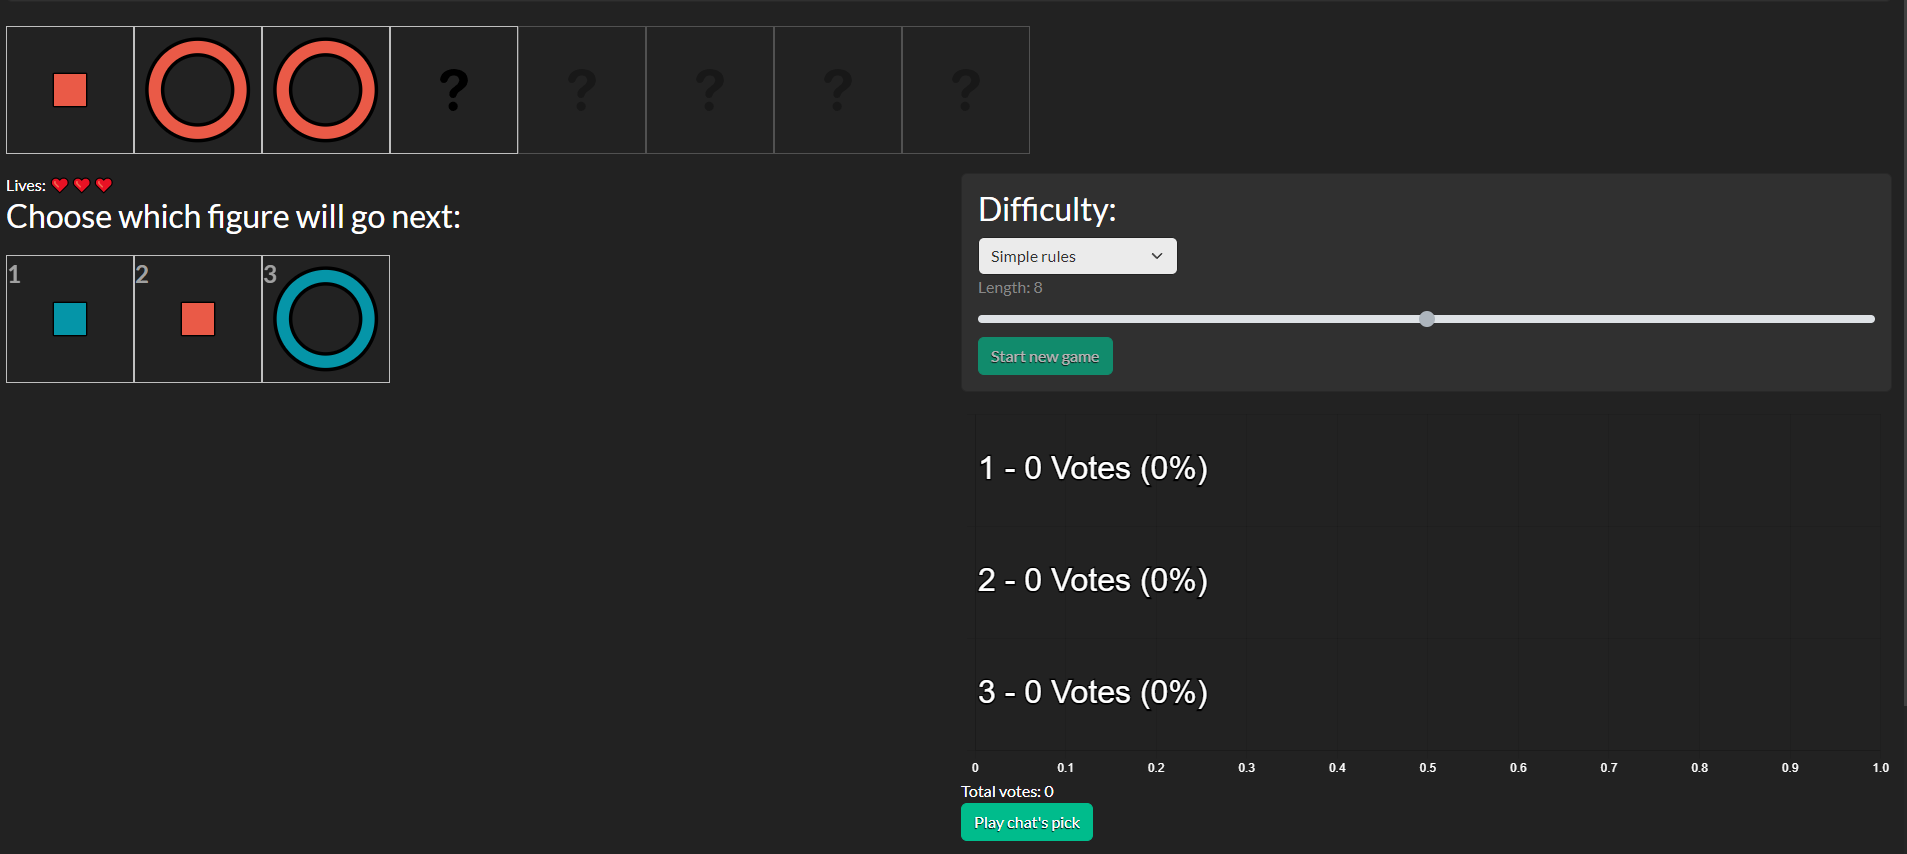
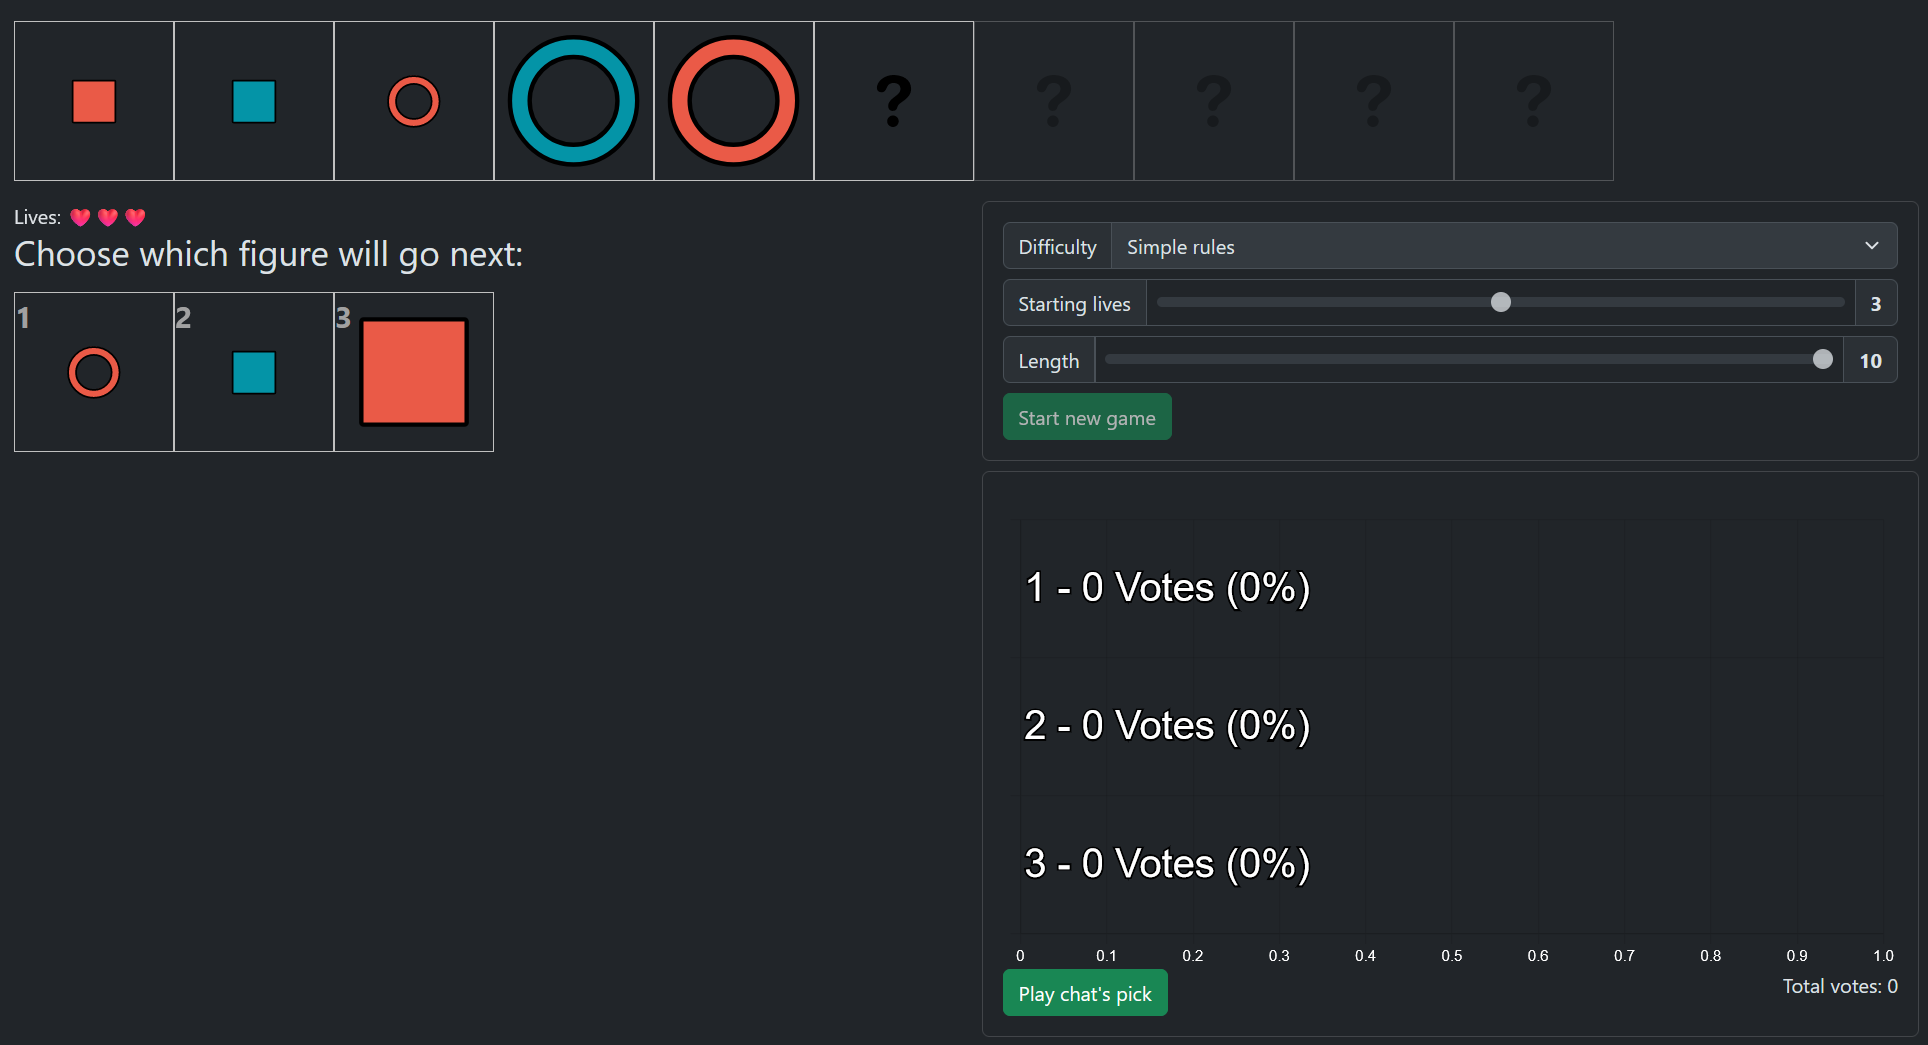
shapes: hide some elements after game ends

diff --git a/games/shapes/index.html b/games/shapes/index.html
@@ -467,8 +467,8 @@
           <div class="row">
             <div class="col-6" id="shapescol1">
               <div id="lives">Lives: ❤❤❤</div>
-              <h3>Choose which figure will go next:</h3>
-              <div id="variants" class="figure-container">
+              <h3 class="hide-after-game">Choose which figure will go next:</h3>
+              <div id="variants" class="figure-container hide-after-game">
                 <div class="figure unknown shapesoptions" data-choice="0">1</div>
                 <div class="figure unknown shapesoptions" data-choice="1">2</div>
                 <div class="figure unknown shapesoptions" data-choice="2">3</div>
@@ -480,7 +480,7 @@
               </div>
             </div>
             <div class="col-6">
-              <div class="card">
+              <div class="card mb-2">
                 <div class="card-body">
                   <div class="input-group mb-2">
                     <label class="input-group-text" for="difficulty">Difficulty</label>
@@ -507,11 +507,18 @@
                   <button id="startshapesbtn" onclick="start()" type="button" class="btn btn-success">Start new game</button>
                 </div>
               </div>
-              <div id="shapeschartdiv" class="chart-container">
-                <canvas id="shapeschartCanvas"></canvas>
+              <div class="card hide-after-game" style="display: none">
+                <div class="card-body">
+                  <div id="shapeschartdiv" class="chart-container">
+                    <canvas id="shapeschartCanvas"></canvas>
+                  </div>
+                  <div class="d-flex flex-row">
+                    <button type="button" onclick="playTurn()" class="btn btn-success">Play chat's pick</button>
+                    <div class="flex-grow-1"></div>
+                    <span id="totalvotesshapes">Total votes: 0</span>
+                  </div>
+                </div>
               </div>
-              <span id="totalvotesshapes">Total votes: 0</span><br />
-              <button type="button" onclick="playTurn()" class="btn btn-success">Play chat's pick</button>
             </div>
           </div>
         </div>

diff --git a/games/shapes/shapes.js b/games/shapes/shapes.js
@@ -298,9 +298,14 @@ function generateChoices() {
 } //generateChoices
 
 function endGame(win = false) {
-  SHAPES.lives.innerHTML = `Lives: 💀`;
+  if (!win) {
+    SHAPES.lives.innerHTML = `Lives: 💀`;
+  }
 
   SHAPES.shapesGame.gameStarted = false;
+  document.querySelectorAll(".hide-after-game").forEach((e) => {
+    e.style.display = "none";
+  });
   document.querySelector("#endMessage").innerText = win ? "Congrats! You've filled the row!" : "YOU LOST! Wow, you are so bad at this game!";
   document.querySelector("#rule").innerText = SHAPES.shapesGame.rule.desc;
   SHAPES.dVariants.style.visibility = "hidden";
@@ -355,6 +360,9 @@ function start() {
   SHAPES.dShapesLength.disabled = true;
   SHAPES.startBtn.disabled = true;
   SHAPES.dDifficulty.disabled = true;
+  document.querySelectorAll(".hide-after-game").forEach((e) => {
+    e.style.display = "";
+  });
   SHAPES.shapesGame.difficulty = parseInt(SHAPES.dDifficulty.value, 10) || 0;
   SHAPES.shapesGame.lives = parseInt(SHAPES.dStartingLives.value, 10) || 1;
   const rulePool = rules[Object.keys(rules)[SHAPES.shapesGame.difficulty]];
